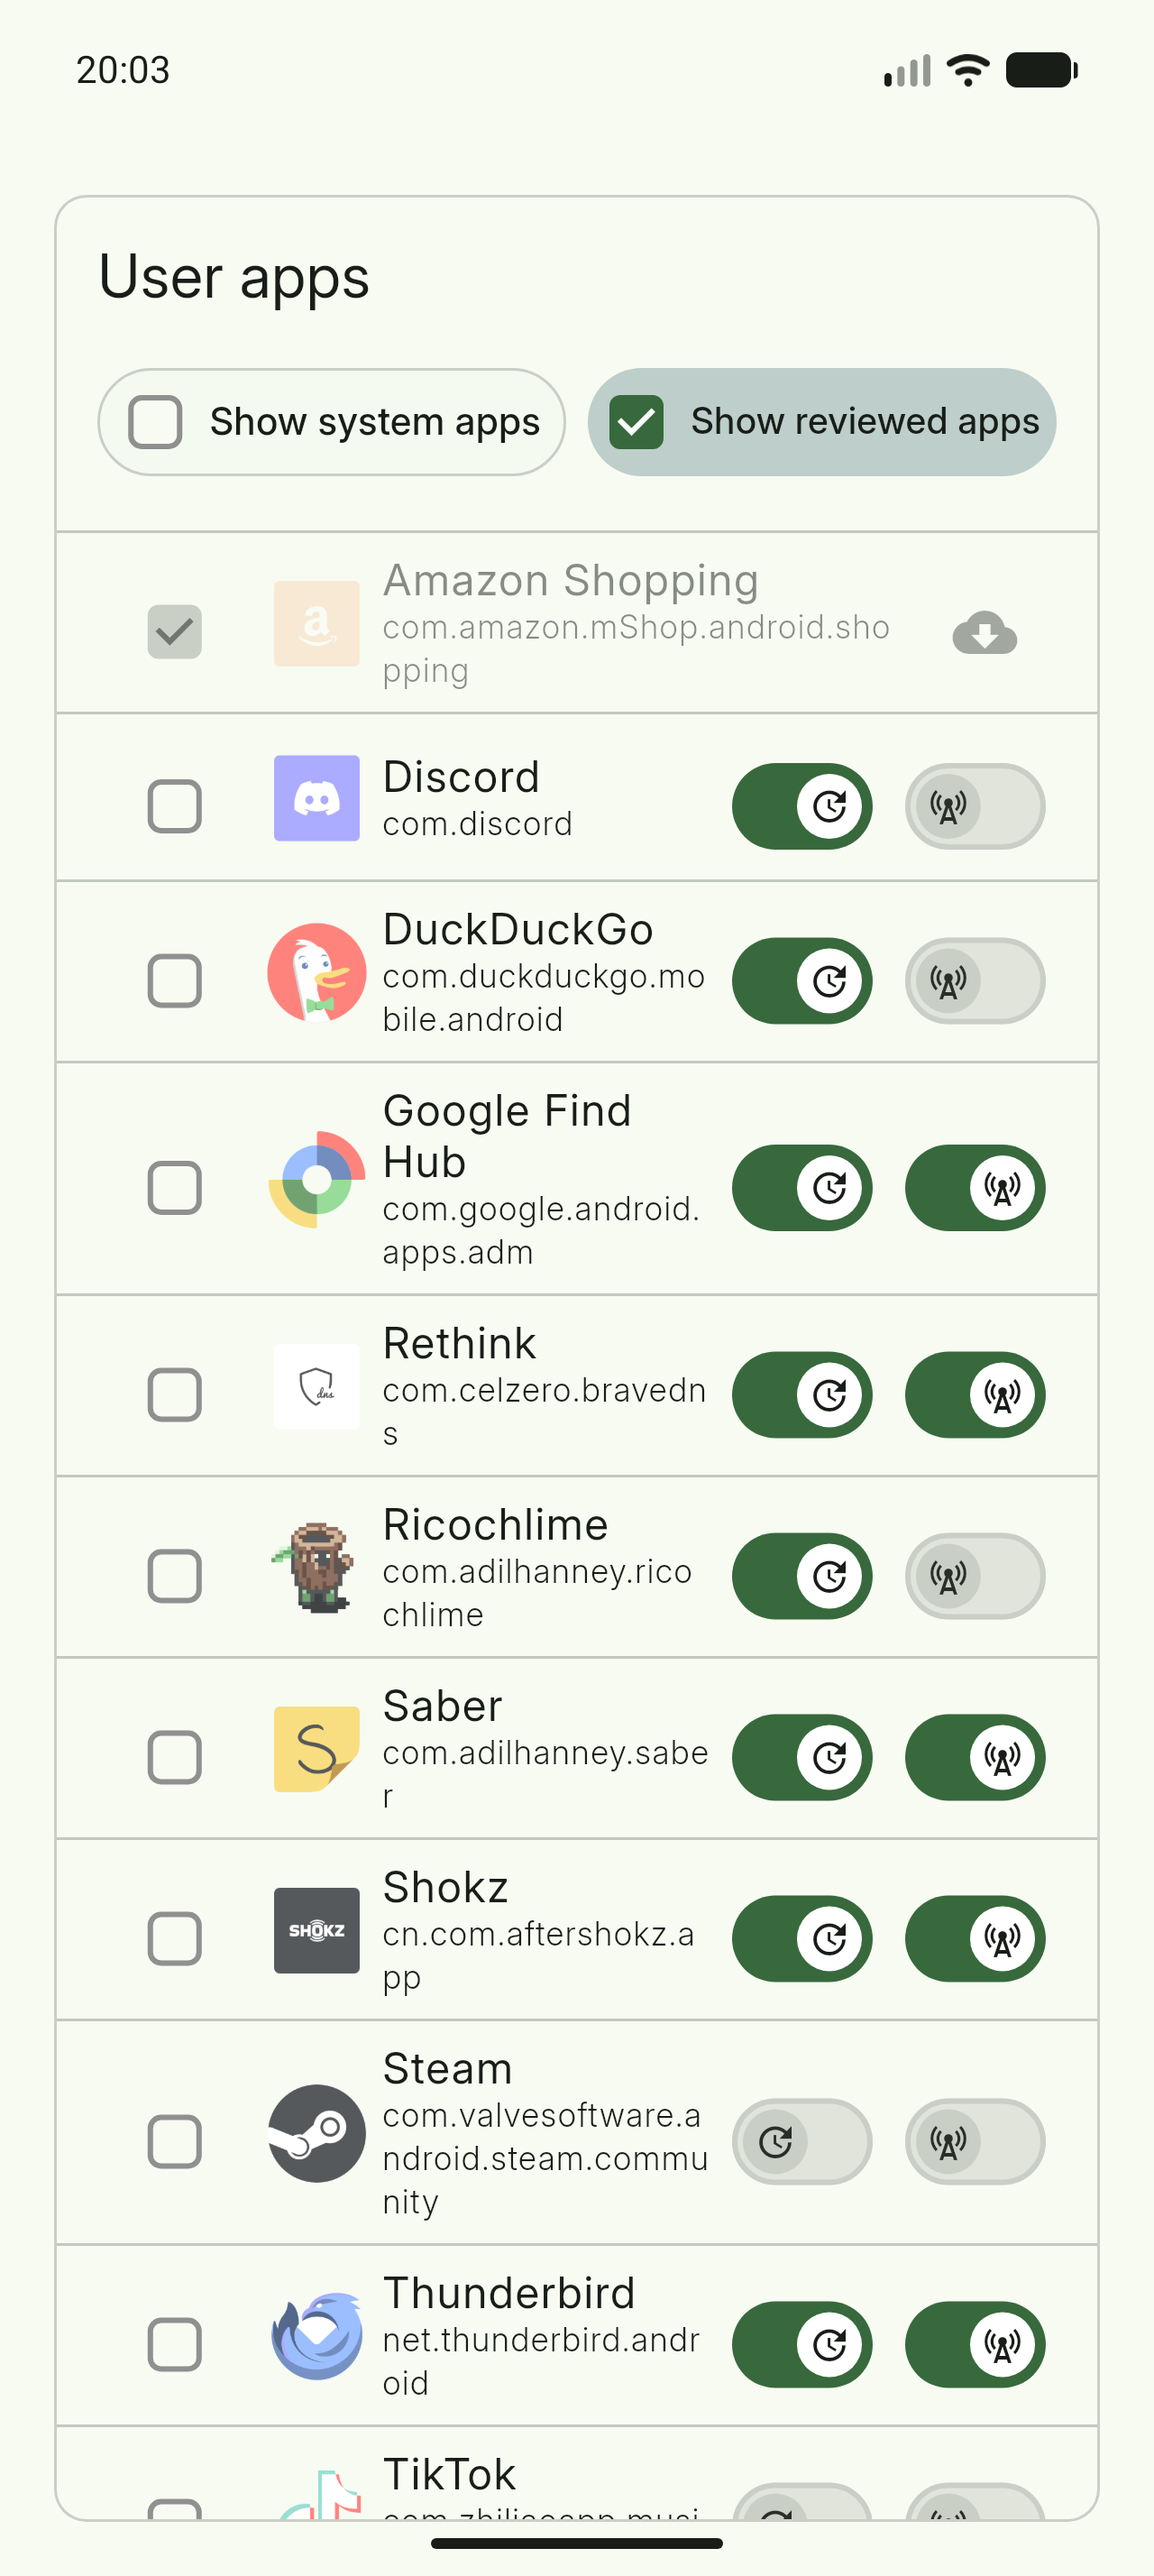
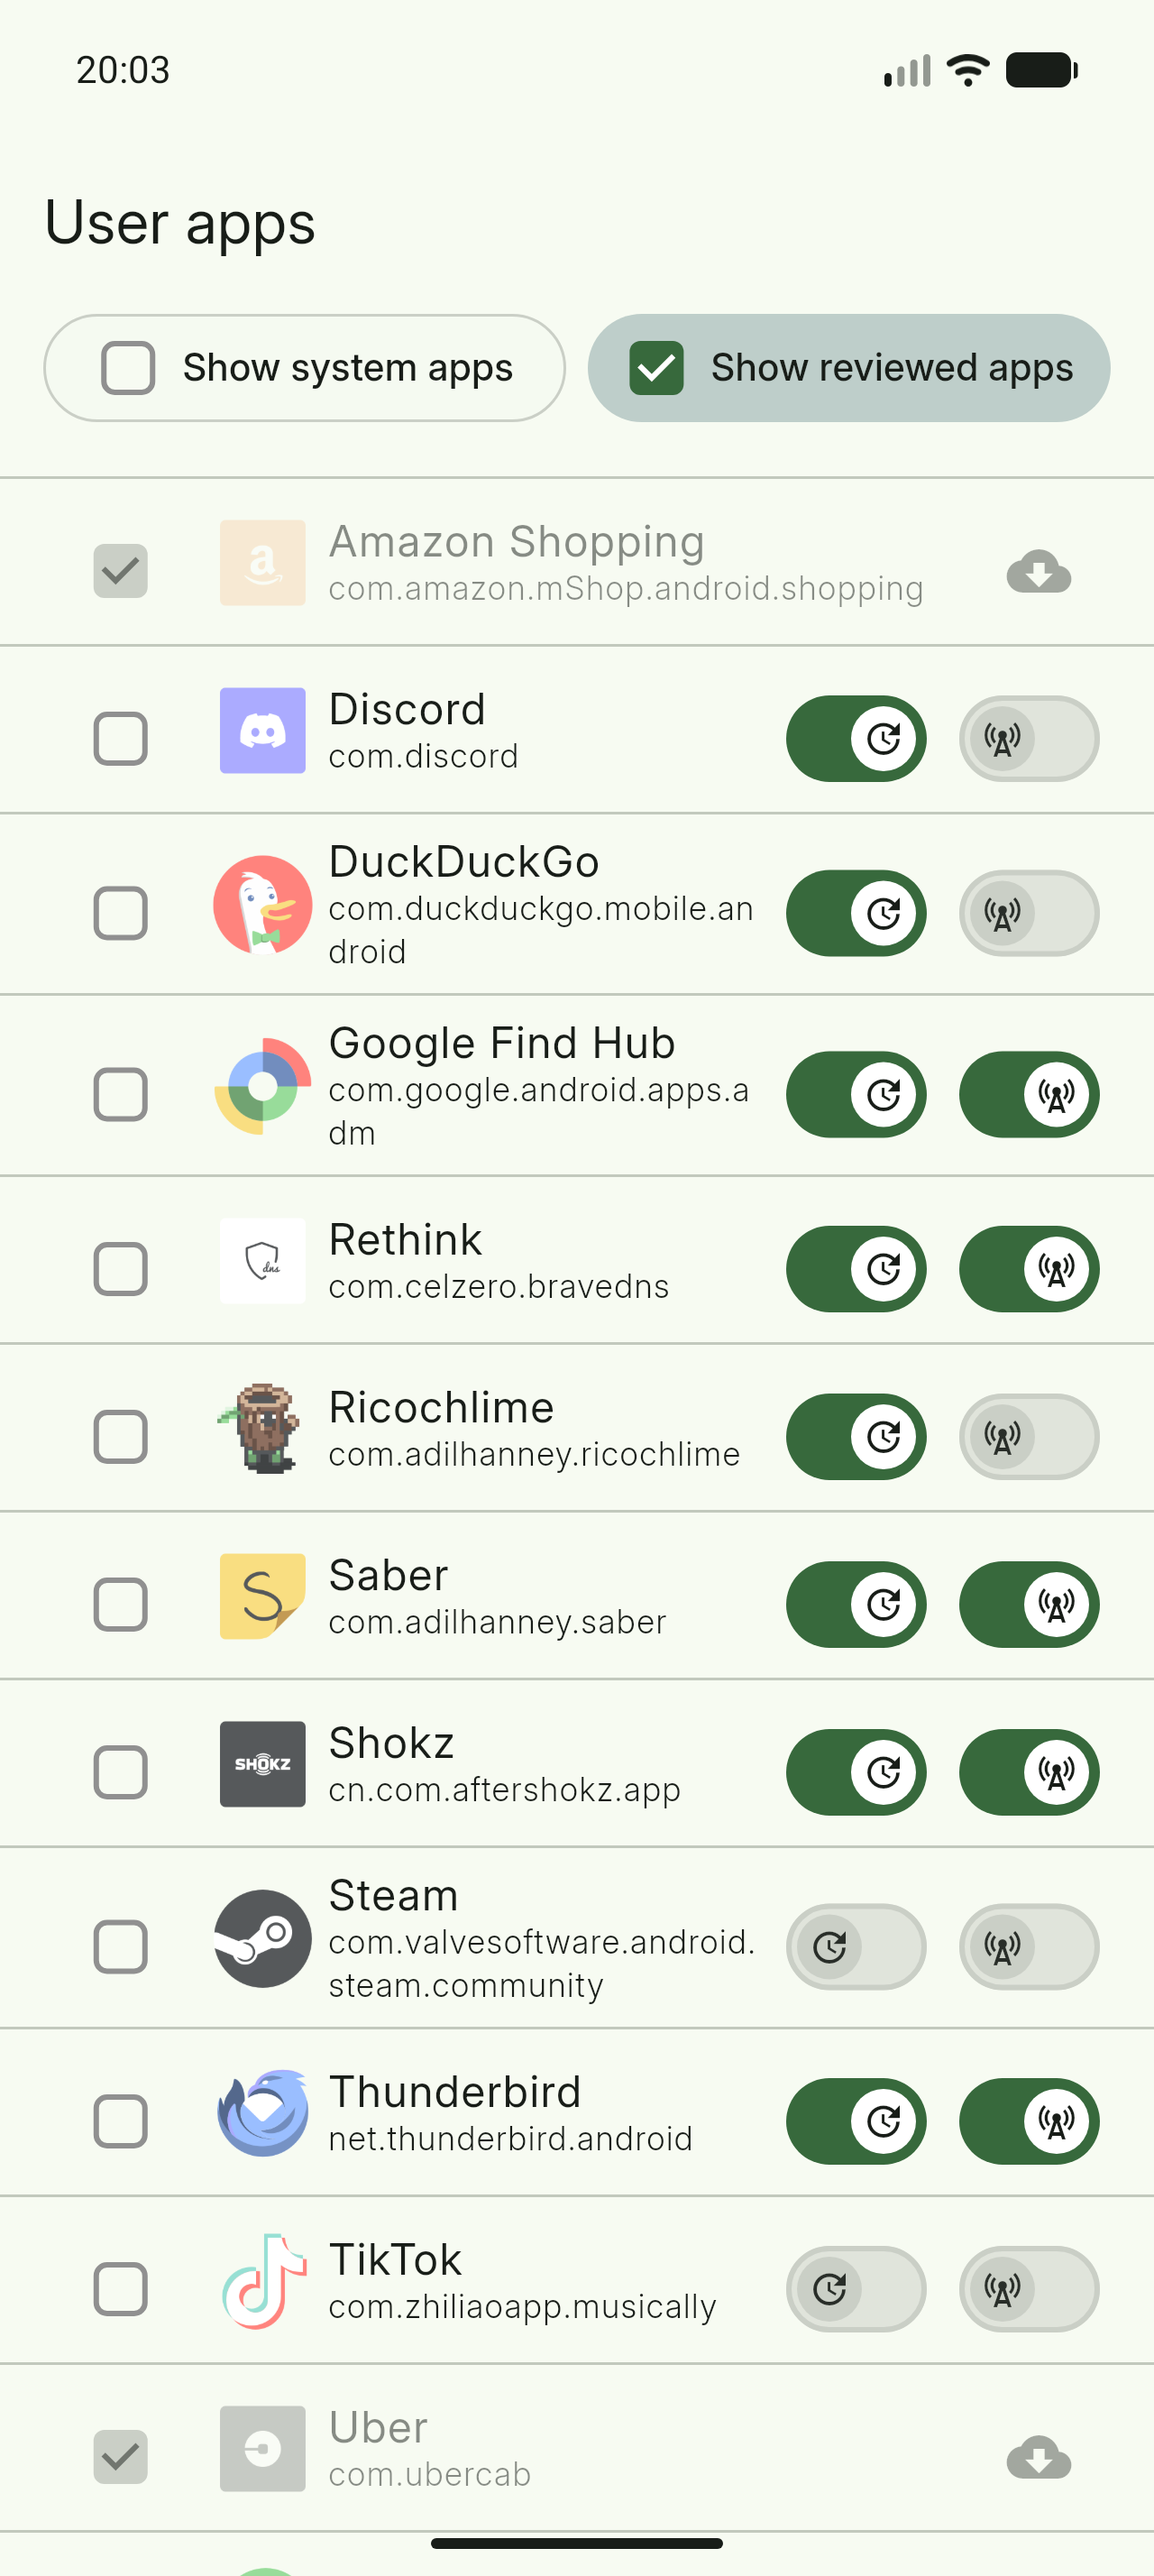
tweak: remove YaruSection on mobile

diff --git a/lib/pages/apps_page.dart b/lib/pages/apps_page.dart
@@ -1,4 +1,3 @@
-import 'package:flutter/foundation.dart';
 import 'package:flutter/material.dart';
 import 'package:flutter_hooks/flutter_hooks.dart';
 import 'package:no_more_background/components/app_tile.dart';
@@ -104,58 +103,47 @@ class AppsPageState extends State<AppsPage> {
     if (showSystemApps && !_hasLoadedSystemApps) _loadApps();
 
     final isAndroid = Theme.of(context).platform == .android;
+    final isScreenSmall = MediaQuery.sizeOf(context).width < kMaxContentWidth;
+
     return Scaffold(
-      appBar: AppBar(
-        toolbarHeight: !isAndroid ? 64 : 0,
-        leading: (isThisATest && !isAndroid) ? const BackButton() : null,
-        title: !isAndroid
-            ? DeviceTile(widget.deviceSerial, imageSize: 48, padding: .zero)
-            : null,
-      ),
-      body: Column(
-        crossAxisAlignment: .stretch,
-        children: [
-          Expanded(
-            child: Center(
-              child: Padding(
-                padding: const .all(kYaruPagePadding),
-                child: YaruSection(
-                  width: kMaxContentWidth,
-                  padding: .zero,
-                  headlinePadding: .zero,
-                  headline: _Headline(),
-                  child: ListView.builder(
-                    itemCount: apps.length,
-                    itemBuilder: (context, index) {
-                      final app = apps[index];
-                      return Stack(
-                        children: [
-                          AnimatedSize(
-                            duration: const Duration(milliseconds: 300),
-                            curve: Curves.easeOutQuad,
-                            child: AppTile(
-                              key: ValueKey(app.packageName),
-                              deviceSerial: widget.deviceSerial,
-                              app: app,
-                              permissions: permissionMap[app],
-                            ),
-                          ),
-                          const Positioned(
-                            bottom: 0,
-                            left: 0,
-                            right: 0,
-                            child: Divider(),
-                          ),
-                        ],
-                      );
-                    },
+      appBar: isAndroid
+          ? AppBar(toolbarHeight: 0)
+          : AppBar(
+              toolbarHeight: 64,
+              leading: isThisATest ? const BackButton() : null,
+              title: DeviceTile(
+                widget.deviceSerial,
+                imageSize: 48,
+                padding: .zero,
+              ),
+            ),
+      body: isScreenSmall
+          ? Column(
+              children: [
+                _Headline(),
+                Expanded(
+                  child: _AppsList(
+                    apps: apps,
+                    deviceSerial: widget.deviceSerial,
+                    permissionMap: permissionMap,
                   ),
+                ),
+              ],
+            )
+          : Center(
+              child: YaruSection(
+                width: kMaxContentWidth,
+                margin: const .all(kYaruPagePadding),
+                padding: .zero,
+                headlinePadding: .zero,
+                headline: _Headline(),
+                child: _AppsList(
+                  apps: apps,
+                  deviceSerial: widget.deviceSerial,
+                  permissionMap: permissionMap,
                 ),
               ),
             ),
-          ),
-        ],
-      ),
     );
   }
 }
@@ -176,9 +164,10 @@ class _Headline extends HookWidget {
         const SizedBox.shrink(), // to add padding
         Padding(
           padding: horizontalPadding,
-          child: stows.showSystemApps.value
-              ? Text('All apps')
-              : Text('User apps'),
+          child: Text(
+            stows.showSystemApps.value ? 'All apps' : 'User apps',
+            style: Theme.of(context).textTheme.titleLarge,
+          ),
         ),
         Padding(
           padding: horizontalPadding,
@@ -261,6 +250,45 @@ class _CheckButton extends StatelessWidget {
           ],
         ),
       ),
+    );
+  }
+}
+
+class _AppsList extends StatelessWidget {
+  const _AppsList({
+    required this.apps,
+    required this.deviceSerial,
+    required this.permissionMap,
+  });
+
+  final List<AdbApp> apps;
+  final String deviceSerial;
+  final PermissionMap permissionMap;
+
+  @override
+  Widget build(BuildContext context) {
+    final viewPadding = MediaQuery.viewPaddingOf(context);
+    return ListView.builder(
+      padding: viewPadding.copyWith(top: 0),
+      itemCount: apps.length,
+      itemBuilder: (context, index) {
+        final app = apps[index];
+        return Stack(
+          children: [
+            AnimatedSize(
+              duration: const Duration(milliseconds: 300),
+              curve: Curves.easeOutQuad,
+              child: AppTile(
+                key: ValueKey(app.packageName),
+                deviceSerial: deviceSerial,
+                app: app,
+                permissions: permissionMap[app],
+              ),
+            ),
+            const Positioned(bottom: 0, left: 0, right: 0, child: Divider()),
+          ],
+        );
+      },
     );
   }
 }
